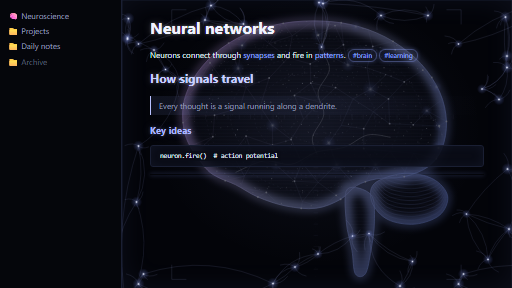
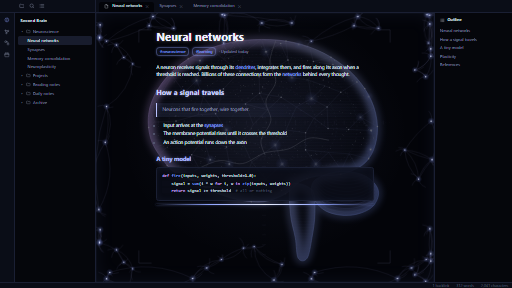
docs: add screenshots of the note and graph views

diff --git a/README.md b/README.md
@@ -2,7 +2,9 @@
 
 A dark Obsidian theme inspired by glowing neural networks: a holographic brain behind every note, and a web of lavender-blue neurons running around the frame.
 
-![Brain theme](screenshot.png)
+![Brain theme: a note with the holographic brain and the neural frame](screenshots/hero.png)
+
+![Brain theme: graph view](screenshots/graph.png)
 
 ## Features
 
